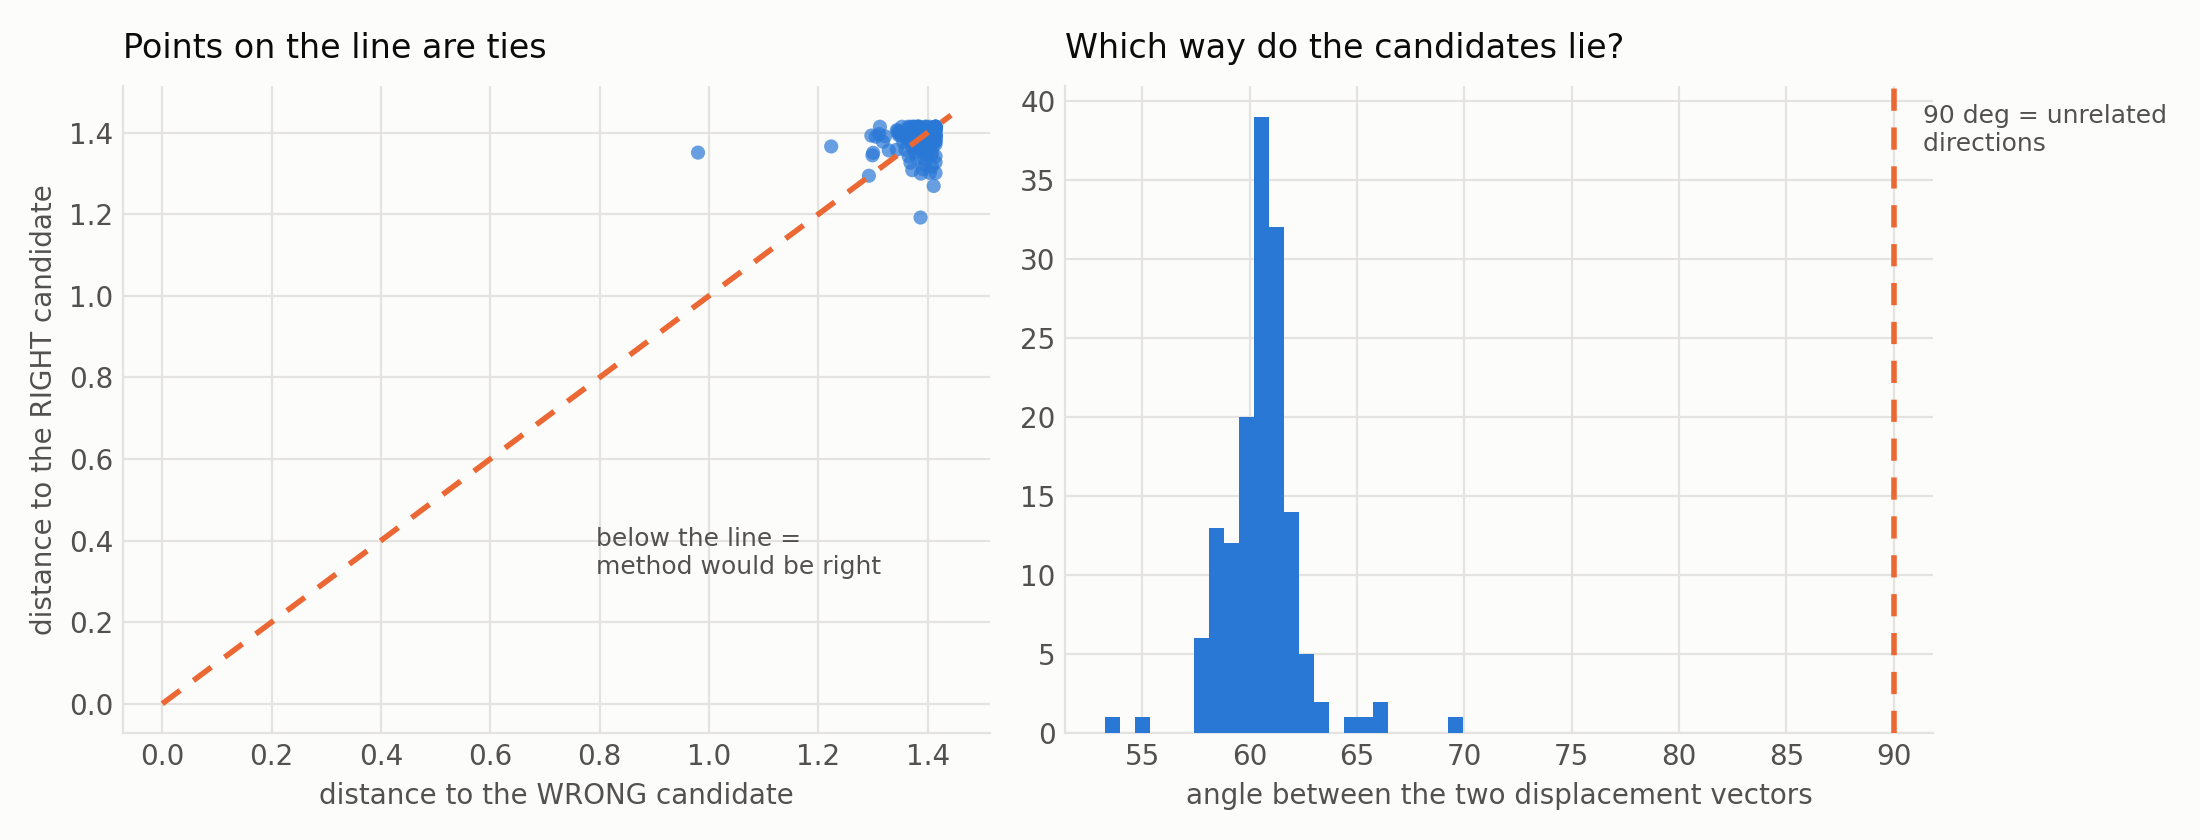
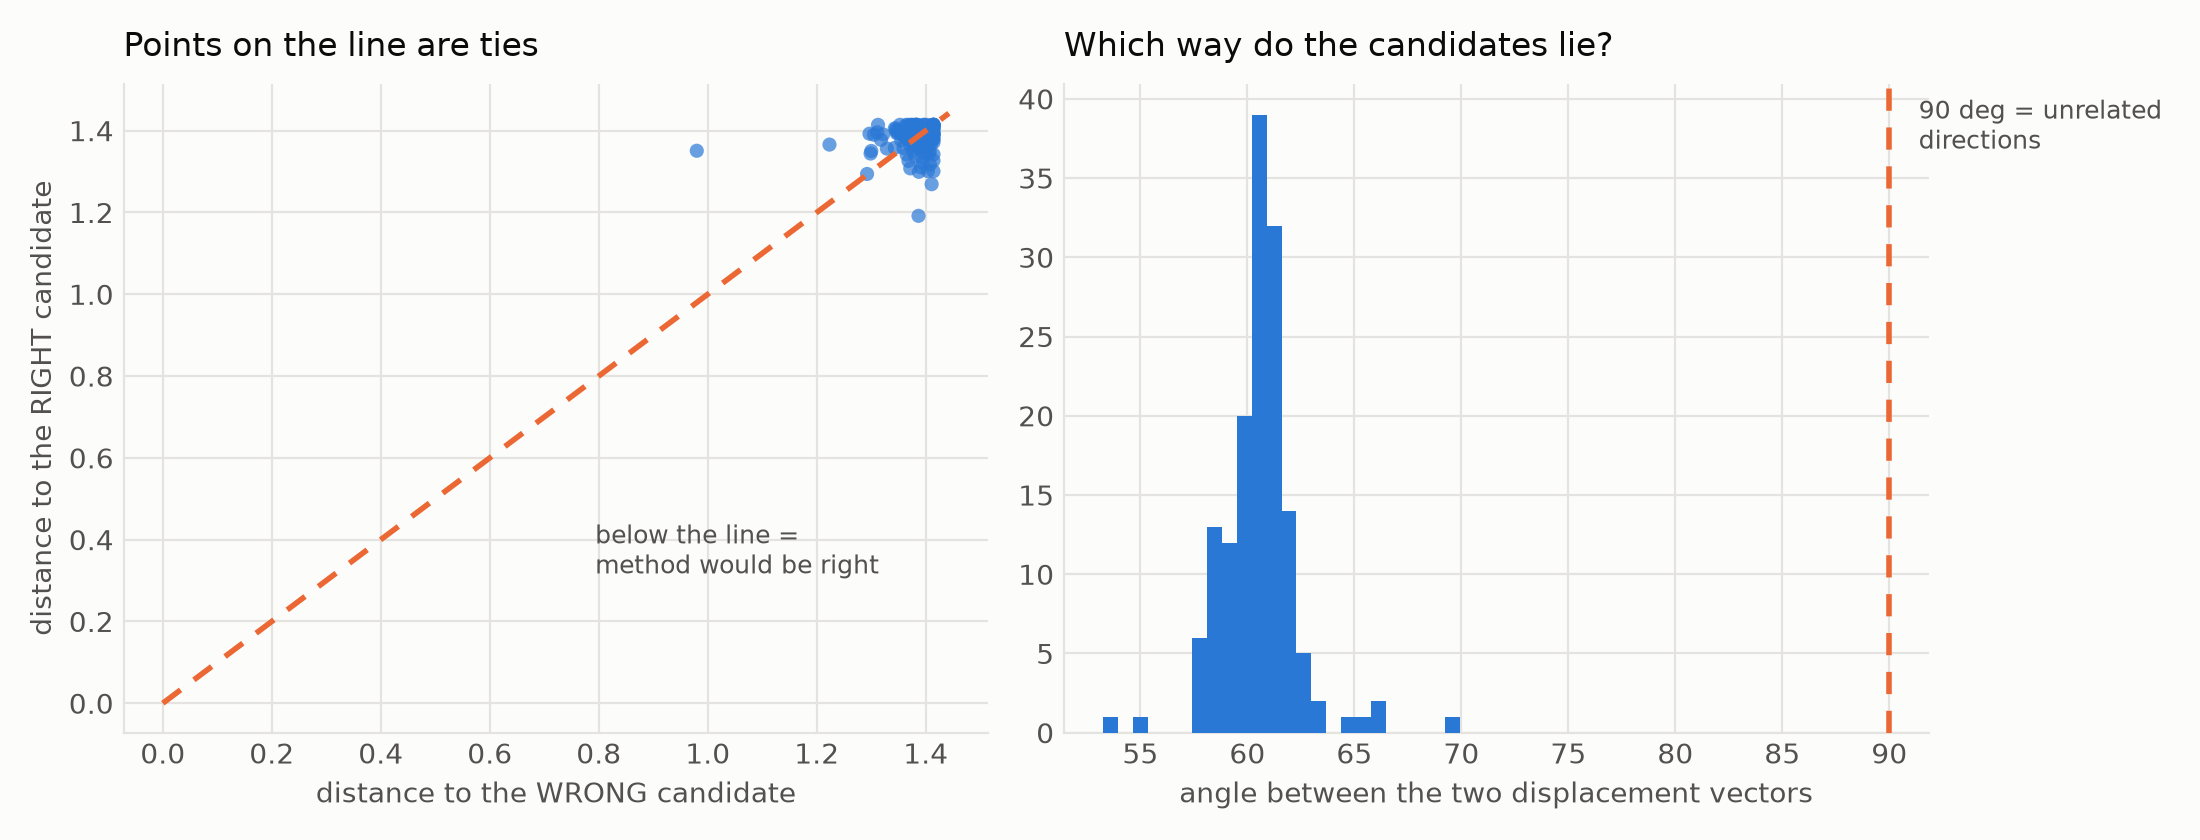
Phase 1 answered: no component beats the whole summary
theme 56.0%, action 54.0%, outcome 52.7% - every 95% interval contains 50%.
The decomposition hypothesis required some component to beat theme, since the
claim was that the whole-story view averages a signal away. Theme is strongest
and outcome weakest, so slicing loses signal rather than revealing it.

The rank order matches how often annotators cite each aspect (98.3 / 52.8 /
24.0), which is corroboration on three points rather than proof, but points the
same way as the comment analysis.

Claude-Session: https://claude.ai/code/session_016vCECVWuwkv8WSiTwov6u5

diff --git a/docs/WHAT_MAKES_STORIES_CLOSE.md b/docs/WHAT_MAKES_STORIES_CLOSE.md
@@ -149,3 +149,52 @@ goes into phase 2.
 Theme is the whole summary on purpose. A sentence encoder already abstracts, and
 the whole-summary embedding is the strongest single layer in this project — that
 is itself the evidence that it proxies theme.
+
+---
+
+# Phase 1 result: no component escapes the equidistance
+
+Run 30 October, n = 150 dev triples, MiniLM.
+
+| component | right candidate closer | 95% CI | p vs 50% |
+|---|---|---|---|
+| theme | 56.0% | [48.0, 63.7] | 0.165 |
+| action | 54.0% | [46.0, 61.8] | 0.369 |
+| outcome | 52.7% | [44.7, 60.5] | 0.568 |
+
+**Every interval contains 50%.** None of the three components separates the
+right candidate from the wrong one better than a coin flip.
+
+And the direction is the opposite of what the decomposition hypothesis needs.
+The hypothesis was that the whole-story view *averages away* a signal that
+survives in a part — so some component should beat theme. Instead **theme is the
+strongest and outcome the weakest.** Theme is the whole summary. Slicing the
+story loses signal rather than revealing it.
+
+## The ordering is the interesting part
+
+| component | annotators cite it | geometric signal |
+|---|---|---|
+| theme | 98.3% | 56.0% |
+| action | 52.8% | 54.0% |
+| outcome | 24.0% | 52.7% |
+
+The rank order is identical. The components that annotators invoke most often
+are the ones carrying the most geometric separation, in the same order.
+
+This is three points, so a matching rank order happens by chance one time in
+six, and no individual difference is significant. It is corroboration, not
+proof. But it is the second independent route to the same conclusion: **this
+task is decided by what a story is about, and the whole-summary view is already
+the best available estimate of that.**
+
+## What this closes
+
+The component programme is answered before it was built. Phase 2 would fit
+weights over three components, and the geometry predicts where those weights
+will go: onto theme, which is the whole summary, which is the `l2_e5` layer that
+has led the table since the beginning.
+
+Running `make components` once is still worth doing, as a **confirmation** with
+a concrete artifact — the fitted weight vector is a single sentence for the
+report. It is no longer an exploration.
